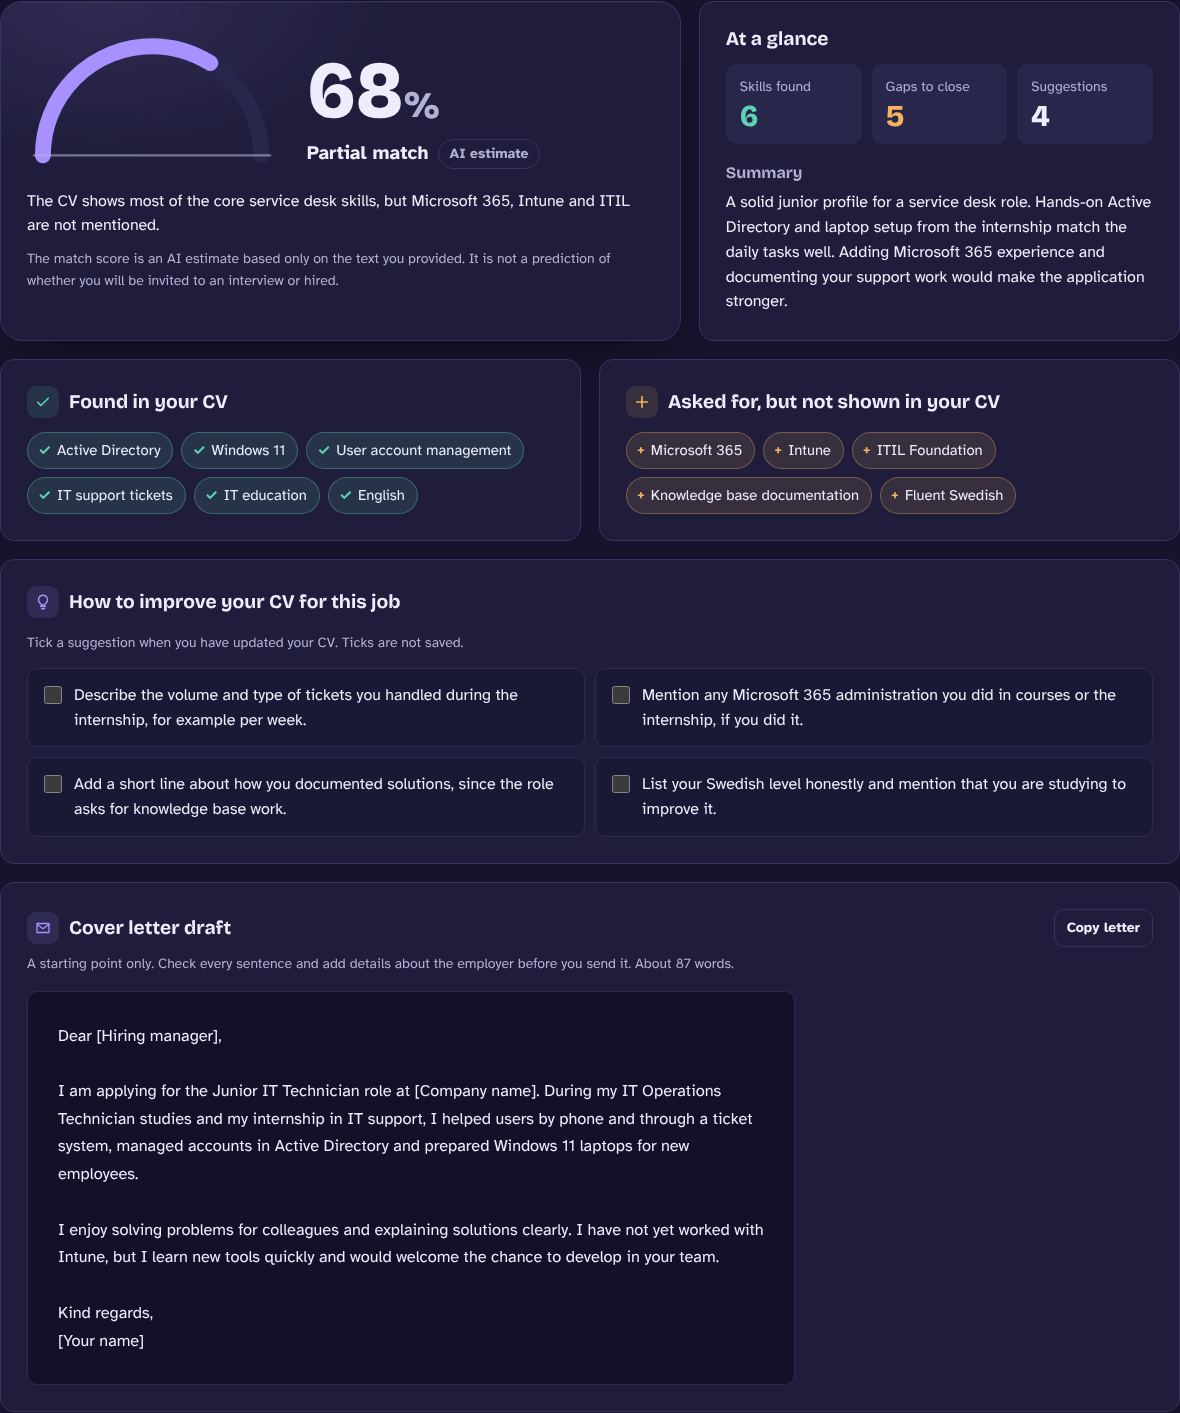
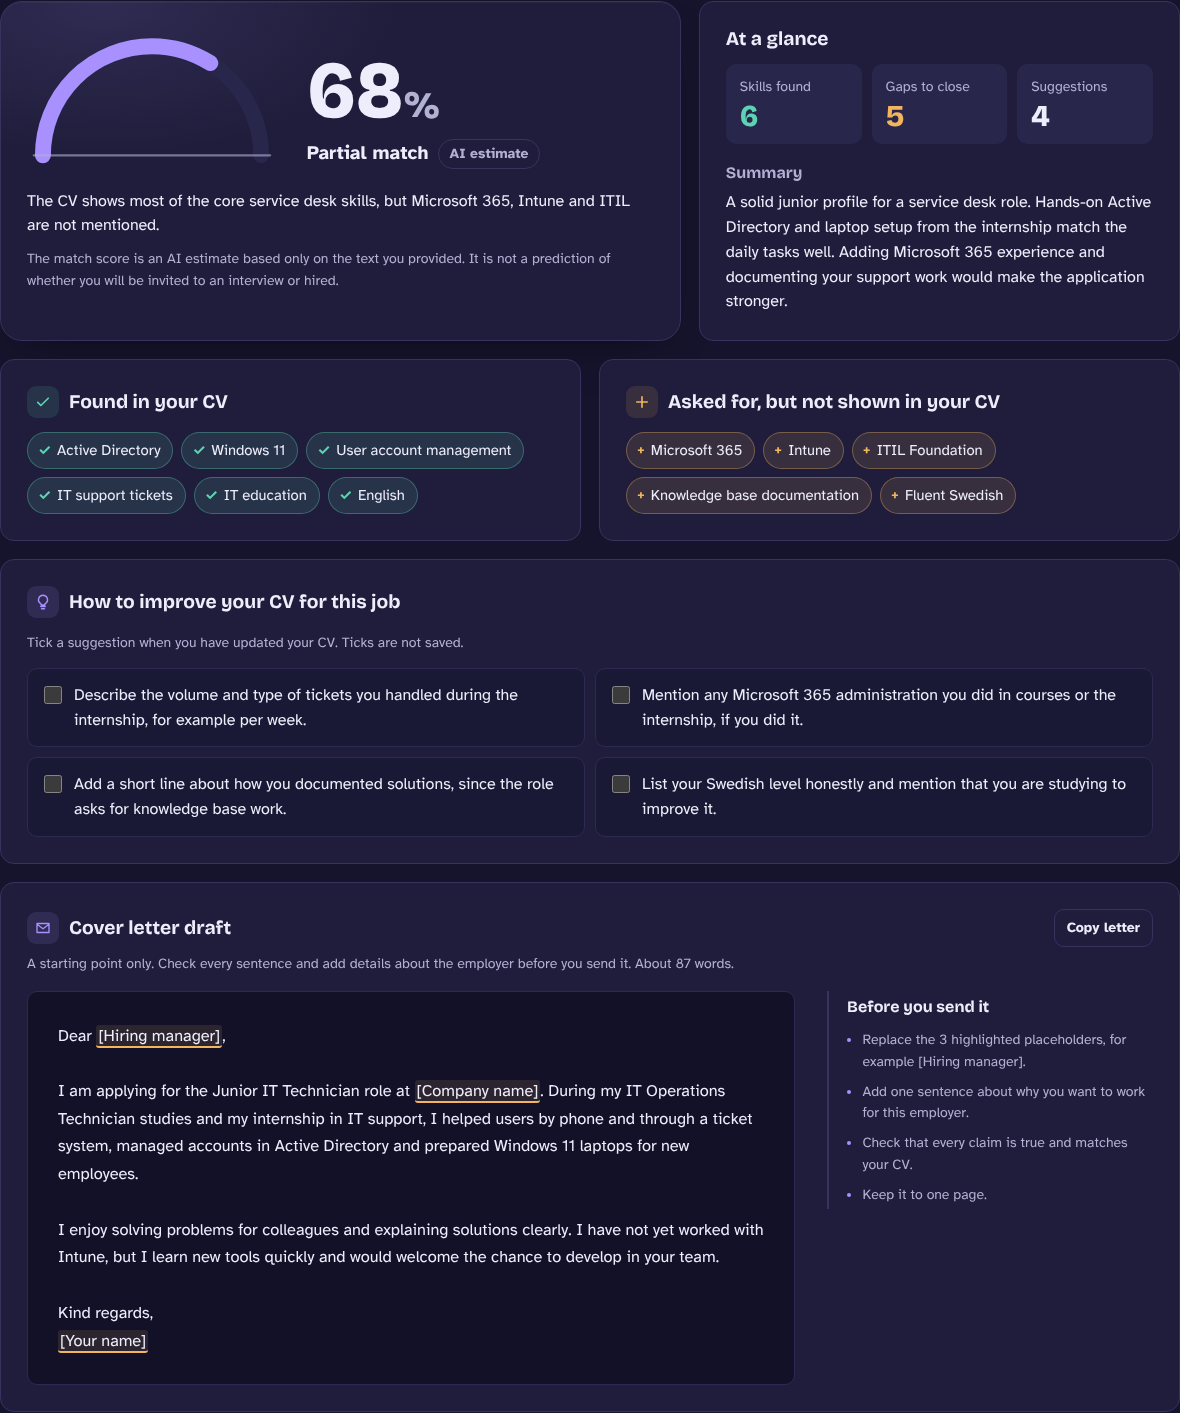
v2.2.0: print/PDF fix, highlighted letter placeholders, final polish
- Fix: result cards could be invisible when printing or saving as PDF
  (entrance animation not finished); print styles now show every card
- Fix: animation delays removed when reduce motion is on
- Cover letter: placeholders highlighted (text nodes only, no HTML) and a
  'Before you send it' checklist beside the letter
- 3 new browser tests (169 total); screenshots and docs updated

Claude-Session: https://claude.ai/code/session_01SgtJZH64y9r4VYKCSAPzad

diff --git a/static/css/app.css b/static/css/app.css
@@ -325,8 +325,15 @@ select { background: var(--field); border: 1px solid var(--line); border-radius:
 
 .letter-head { display: flex; align-items: center; justify-content: space-between; gap: 12px; margin-bottom: 6px; }
 .letter-head h3 { margin-bottom: 0; }
-.letter-body { margin-top: 16px; padding: clamp(18px, 3vw, 30px); border-radius: var(--r-sm); background: var(--field);
-  border: 1px solid var(--line-soft); white-space: pre-wrap; max-width: 48rem; line-height: 1.7; font-size: 1.02rem; }
+.letter-layout { display: grid; grid-template-columns: minmax(0, 48rem) minmax(200px, 1fr); gap: clamp(16px, 3vw, 32px);
+  align-items: start; margin-top: 16px; }
+.letter-body { padding: clamp(18px, 3vw, 30px); border-radius: var(--r-sm); background: var(--field);
+  border: 1px solid var(--line-soft); white-space: pre-wrap; line-height: 1.7; font-size: 1.02rem; min-width: 0; }
+.letter-body mark { background: var(--missing-bg); color: inherit; border-bottom: 2px solid var(--missing); border-radius: 3px; padding: 0 2px; }
+.letter-tips { border-left: 2px solid var(--line); padding: 4px 0 4px 18px; }
+.letter-tips h4 { font-family: var(--font-display); font-size: var(--step-0); margin: 0 0 10px; }
+.letter-tips ul { margin: 0; padding-left: 1.1em; color: var(--muted); font-size: var(--step--1); display: grid; gap: 8px; }
+.letter-tips li::marker { color: var(--violet); }
 
 /* ---------- privacy ---------- */
 .privacy { margin-top: clamp(48px, 7vw, 88px); padding-top: 36px; border-top: 1px solid var(--line-soft); scroll-margin-top: 16px; }
@@ -364,6 +371,8 @@ select { background: var(--field); border: 1px solid var(--line); border-radius:
   .stat { padding: 10px; }
   .stat dd { font-size: 1.6rem; }
   .suggestions { grid-template-columns: 1fr; }
+  .letter-layout { grid-template-columns: 1fr; }
+  .letter-tips { border-left: 0; border-top: 1px solid var(--line-soft); padding: 14px 0 0; }
   .results-tools { width: 100%; display: grid; grid-template-columns: 1fr; }
   .privacy-grid { grid-template-columns: 1fr; }
   .skeleton { grid-template-columns: 1fr; }
@@ -373,10 +382,13 @@ select { background: var(--field); border: 1px solid var(--line); border-radius:
 
 @media (prefers-reduced-motion: reduce) {
   html { scroll-behavior: auto; }
-  *, *::before, *::after { animation-duration: 0.01ms !important; animation-iteration-count: 1 !important; transition-duration: 0.01ms !important; }
+  *, *::before, *::after { animation-duration: 0.01ms !important; animation-delay: 0s !important; animation-iteration-count: 1 !important; transition-duration: 0.01ms !important; }
 }
 @media print {
   .site-header, .hero, .compare, .progress, .results-tools, .letter-head button, .skip-link, .privacy { display: none !important; }
   body { background: #fff; color: #000; }
-  .card { border: 1px solid #ccc; break-inside: avoid; }
+  .card { border: 1px solid #ccc; break-inside: avoid; animation: none !important; opacity: 1 !important; transform: none !important; box-shadow: none !important; }
+  .letter-tips, .results .hint { display: none !important; }
+  .letter-layout { display: block; }
+  .letter-body mark { background: none; border-bottom: 1px dashed #000; }
 }

diff --git a/static/js/app.js b/static/js/app.js
@@ -366,7 +366,7 @@ We think you have:
     $("count-missing").textContent = String((a.missing_skills || []).length);
     $("count-suggestions").textContent = String(suggestions.length);
     const letter = a.cover_letter || "";
-    $("cover-letter").textContent = letter;
+    renderLetter(letter);
     const words = letter.trim() ? letter.trim().split(/\s+/).length : 0;
     $("letter-words").textContent = words ? `About ${words} words.` : "";
 
@@ -380,6 +380,24 @@ We think you have:
     lastReport = buildReport(a, data.disclaimer);
     results.scrollIntoView({ behavior: reduceMotion.matches ? "auto" : "smooth" });
     results.focus({ preventScroll: true });
+  }
+
+  // Shows the letter as plain text, with [placeholders] highlighted (no innerHTML is used).
+  function renderLetter(letter) {
+    const box = $("cover-letter");
+    const parts = letter.split(/(\[[^\[\]\n]{1,60}\])/);
+    box.replaceChildren(...parts.filter(Boolean).map((part) => {
+      if (/^\[[^\[\]\n]{1,60}\]$/.test(part)) {
+        const mark = document.createElement("mark");
+        mark.textContent = part;
+        return mark;
+      }
+      return document.createTextNode(part);
+    }));
+    const count = box.querySelectorAll("mark").length;
+    $("letter-placeholders").textContent = count
+      ? `Replace the ${count} highlighted ${count === 1 ? "placeholder" : "placeholders"}, for example ${box.querySelector("mark").textContent}.`
+      : "No placeholders found. Still check names and details.";
   }
 
   function countUp(el, target) {

diff --git a/templates/index.html b/templates/index.html
@@ -239,7 +239,18 @@
             <button type="button" class="button button-quiet button-small" id="copy-letter">Copy letter</button>
           </div>
           <p class="hint">A starting point only. Check every sentence and add details about the employer before you send it. <span id="letter-words"></span></p>
-          <div id="cover-letter" class="letter-body"></div>
+          <div class="letter-layout">
+            <div id="cover-letter" class="letter-body"></div>
+            <aside class="letter-tips" aria-labelledby="letter-tips-title">
+              <h4 id="letter-tips-title">Before you send it</h4>
+              <ul>
+                <li id="letter-placeholders">Replace the highlighted placeholders.</li>
+                <li>Add one sentence about why you want to work for this employer.</li>
+                <li>Check that every claim is true and matches your CV.</li>
+                <li>Keep it to one page.</li>
+              </ul>
+            </aside>
+          </div>
         </article>
       </div>
     </section>

diff --git a/tests/e2e/test_dashboard.py b/tests/e2e/test_dashboard.py
@@ -111,3 +111,31 @@ def test_phone_layout_stacks_the_dashboard(mobile_page):
     missing = mobile_page.locator(".skills-missing").bounding_box()
     assert missing["y"] > found["y"] + found["height"] - 1  # stacked, not side by side
     assert mobile_page.evaluate("document.documentElement.scrollWidth <= window.innerWidth")
+
+
+def test_letter_placeholders_are_highlighted(page):
+    run_example(page)
+    marks = page.locator("#cover-letter mark")
+    expect(marks.first).to_have_text("[Hiring manager]")
+    expect(page.locator("#letter-placeholders")).to_contain_text(f"Replace the {marks.count()} highlighted")
+    # copying still gives the plain letter text
+    assert page.text_content("#cover-letter").startswith("Dear [Hiring manager],")
+
+
+def test_letter_highlighting_never_creates_html_from_ai_text(page):
+    from tests.fakes import FAKE_ANALYSIS as base
+    evil = {**base, "score_label": "Partial match",
+            "cover_letter": "Dear [<img src=x onerror=window.hacked=1>],\n\nText [Company name]."}
+    page.route("**/api/analyze", lambda route: route.fulfill(json={"analysis": evil, "language": "en", "disclaimer": "d"}))
+    run_example(page)
+    expect(page.locator("#cover-letter mark")).to_have_count(2)
+    assert page.locator("#cover-letter img").count() == 0
+    assert page.evaluate("window.hacked") is None
+
+
+def test_every_result_card_is_visible_when_printing(page):
+    run_example(page)
+    page.emulate_media(media="print")
+    opacities = page.eval_on_selector_all("#results .card", "cards => cards.map(c => getComputedStyle(c).opacity)")
+    assert opacities and all(o == "1" for o in opacities), opacities
+    assert page.locator(".compare").is_hidden() and page.locator(".letter-tips").is_hidden()

diff --git a/app.py b/app.py
@@ -18,7 +18,7 @@ import cv_extract
 
 load_dotenv()
 
-__version__ = "2.1.3"
+__version__ = "2.2.0"
 
 logging.basicConfig(
     level=os.getenv("LOG_LEVEL", "INFO").upper(),

diff --git a/docs/TESTING.md b/docs/TESTING.md
@@ -1,6 +1,6 @@
 # Testing
 
-CareerBridge AI has **166 automated tests**. None of them call the real Gemini API: every AI answer is a recorded-style fake (`tests/fakes.py`), so the tests are free, fast, offline and need no API key.
+CareerBridge AI has **169 automated tests**. None of them call the real Gemini API: every AI answer is a recorded-style fake (`tests/fakes.py`), so the tests are free, fast, offline and need no API key.
 
 ```bash
 pip install -r requirements.txt -r requirements-dev.txt
@@ -21,7 +21,7 @@ python -m pytest -m e2e             # browser and accessibility tests (about 30 
 | `tests/test_gemini_config.py` | 29 | Gemini thinking level (Gemini 3: `thinkingLevel`, Gemini 2.x: `thinkingBudget`) (default `low`, configurable, can be left to the model), busy-model message and fallback model (used only for 503/429, not for other errors or timeouts), and the diagnostic script: success output, rejected key, unavailable model, fast timeouts, the key is never printed |
 | `tests/test_upload.py` | 21 | Real PDF and DOCX files (tables, truncation), uploads kept out of temp files, missing file, wrong extensions, renamed executables, damaged and encrypted PDFs, page limit, scanned PDFs, 5 MB limit, **zip bomb**, **XXE payload** |
 | `tests/e2e/test_ui.py` | 18 | Playwright + Chromium: page loads without console errors, browser validation, counters, full comparison, AI text inserted as text (XSS), Swedish option, PDF and DOCX upload, unsupported file, Nginx error pages, rate-limit message, cancel, copy, download, theme memory, clear, skip link, mobile layout |
-| `tests/e2e/test_dashboard.py` | 11 | v2.1 interface: uploaded-file card, removing a file, rejected upload, progress view while waiting and after errors, dashboard counters, suggestion checklist, reduced motion, navigation links, tablet and phone layouts |
+| `tests/e2e/test_dashboard.py` | 14 | v2.1/v2.2 interface: highlighted letter placeholders (inserted as text, no HTML), every card visible when printing, uploaded-file card, removing a file, rejected upload, progress view while waiting and after errors, dashboard counters, suggestion checklist, reduced motion, navigation links, tablet and phone layouts |
 | `tests/e2e/test_accessibility.py` | 7 | axe-core WCAG 2.1 A/AA rules on the start page, results page, error state, progress view and uploaded-file card, in dark and light themes |
 
 ## Continuous integration

diff --git a/README.md b/README.md
@@ -21,7 +21,7 @@ Built with **Python, Flask** and the **Google Gemini API**, and hosted with **Gu
 - **Results dashboard** – score card, counters for skills found and gaps, a checklist of CV suggestions and a cover letter card.
 - **Clear progress and errors** – a progress view while the AI works, a cancel button and plain-language error messages.
 - **Accessible, responsive interface** – desktop, tablet and phone layouts, dark and light themes, keyboard support, screen-reader friendly messages. No third-party scripts.
-- **Copy and download** – copy the cover letter or download the full report as a text file.
+- **Copy, download or print** – copy the cover letter (placeholders such as `[Company name]` are highlighted), download the report as a text file, or print / save it as PDF with Ctrl + P.
 
 | Uploaded CV | Progress | Phone | Light theme |
 |---|---|---|---|
@@ -35,7 +35,7 @@ Built with **Python, Flask** and the **Google Gemini API**, and hosted with **Gu
 | AI | Google Gemini API, structured JSON output (default model `gemini-3.6-flash`, fallback `gemini-3.8-flash`) |
 | Files | pypdf, python-docx |
 | Frontend | HTML, CSS and JavaScript without frameworks or CDNs; self-hosted fonts |
-| Testing | pytest, Playwright (Chromium), axe-core – 166 tests, GitHub Actions CI |
+| Testing | pytest, Playwright (Chromium), axe-core – 169 tests, GitHub Actions CI |
 | Hosting | AWS EC2, Linux, Gunicorn, Nginx reverse proxy; v2 adds systemd and HTTPS with Let's Encrypt (configuration in `deploy/`, not yet live) |
 
 ## Run locally
@@ -58,7 +58,7 @@ Without a key the app still starts and explains that the AI key is not configure
 ```bash
 pip install -r requirements-dev.txt
 python -m playwright install chromium
-python -m pytest                    # 166 tests, no API key or internet needed
+python -m pytest                    # 169 tests, no API key or internet needed
 ```
 
 See [docs/TESTING.md](docs/TESTING.md) for what each suite covers.

diff --git a/CHANGELOG.md b/CHANGELOG.md
@@ -1,5 +1,15 @@
 # Changelog
 
+## 2.2.0 – 2026-11-09 (final polish)
+
+### Fixed
+- When printing or saving as PDF, the skill, suggestion and cover-letter cards could be invisible because their entrance animation had not finished. Print styles now always show every card.
+- With "reduce motion" switched on, animation delays still applied; they are now removed as well.
+
+### Changed
+- Cover letter card: placeholders such as `[Company name]` are highlighted (built with text nodes, never HTML) and a "Before you send it" checklist uses the empty space next to the letter; stacked on phones.
+- 3 new browser tests (169 in total). Screenshots updated.
+
 ## 2.1.3 – 2026-11
 
 ### Changed
